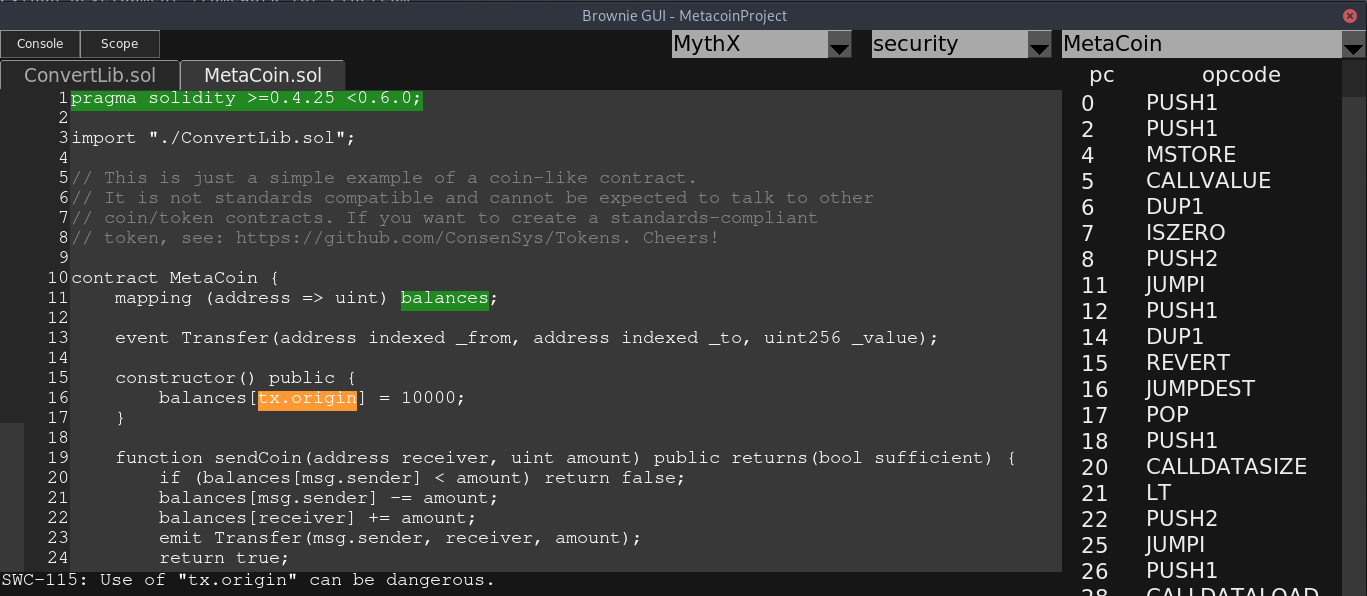
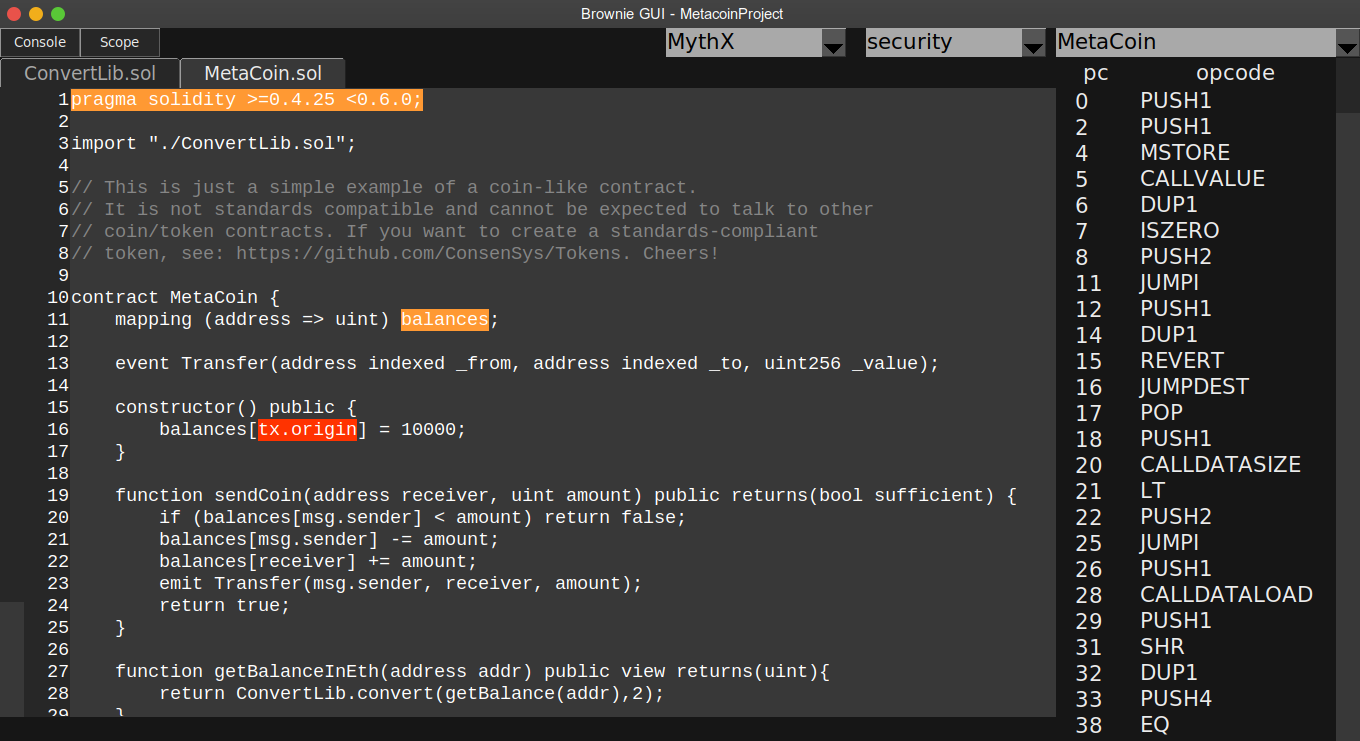
Adjust Mythx report colors (#345)
* adjust mythx report colors to yellow/orange/red

* update mythx tests based on color changes

* update docs

Changed region(s): [[0.0, 0.0, 1.0, 1.0]]

diff --git a/tests/cli/test_analyze.py b/tests/cli/test_analyze.py
@@ -308,7 +308,7 @@ def test_update_report():
                         [
                             0,
                             23,
-                            "green",
+                            "yellow",
                             'SWC-103: A floating pragma is set.\nIt is recommended to make a conscious choice on what version of Solidity is used for compilation. Currently multiple versions "^0.5.0" are allowed.',  # NOQA: E501
                         ]
                     ]

diff --git a/brownie/_cli/analyze.py b/brownie/_cli/analyze.py
@@ -51,7 +51,7 @@ us on the website!
 """
 
 
-SEVERITY_COLOURS = {"LOW": "green", "MEDIUM": "yellow", "HIGH": "red"}
+SEVERITY_COLOURS = {"LOW": "yellow", "MEDIUM": "orange", "HIGH": "red"}
 DASHBOARD_BASE_URL = "https://dashboard.mythx.io/#/console/analyses/"
 TRIAL_PRINTED = False
 BYTECODE_ADDRESS_PATCH = re.compile(r"__\w{38}")

diff --git a/docs/tests-security-analysis.rst b/docs/tests-security-analysis.rst
@@ -102,8 +102,8 @@ Click on the drop-down list in the upper right that says "Select Report" and cho
 
 If any vulnerabilities have been found, they will be highlighted based on their severity:
 
-    * :green:`Green` Low severity (best practice violations)
-    * :yellow:`Yellow` Medium severity (potential vulnerability), needs to be fixed
+    * :yellow:`Yellow` Low severity (best practice violations)
+    * :orange:`Orange` Medium severity (potential vulnerability), needs to be fixed
     * :red:`Red` High severity (critical, immediate danger of exploitation)
 
 You can expand the console by clicking the ``Console`` button in the top left (or pressing the ``C`` key). Hovering the mouse over a vulnerability will displayed a more detailed explanation from the `SWC registry <https://swcregistry.io/>`_.

diff --git a/docs/quickstart.rst b/docs/quickstart.rst
@@ -279,7 +279,7 @@ Here is an example test function using Brownie's automatically generated fixture
 
         token.transfer(accounts[1], 1e19, {'from': accounts[0]})
         assert token.balanceOf(accounts[1]) == 1e19
-        assert token.balanceOf(accounts[0]) == 9.9e19
+        assert token.balanceOf(accounts[0]) == 9e19
 
 A complete list of Brownie fixtures is available here.
 
